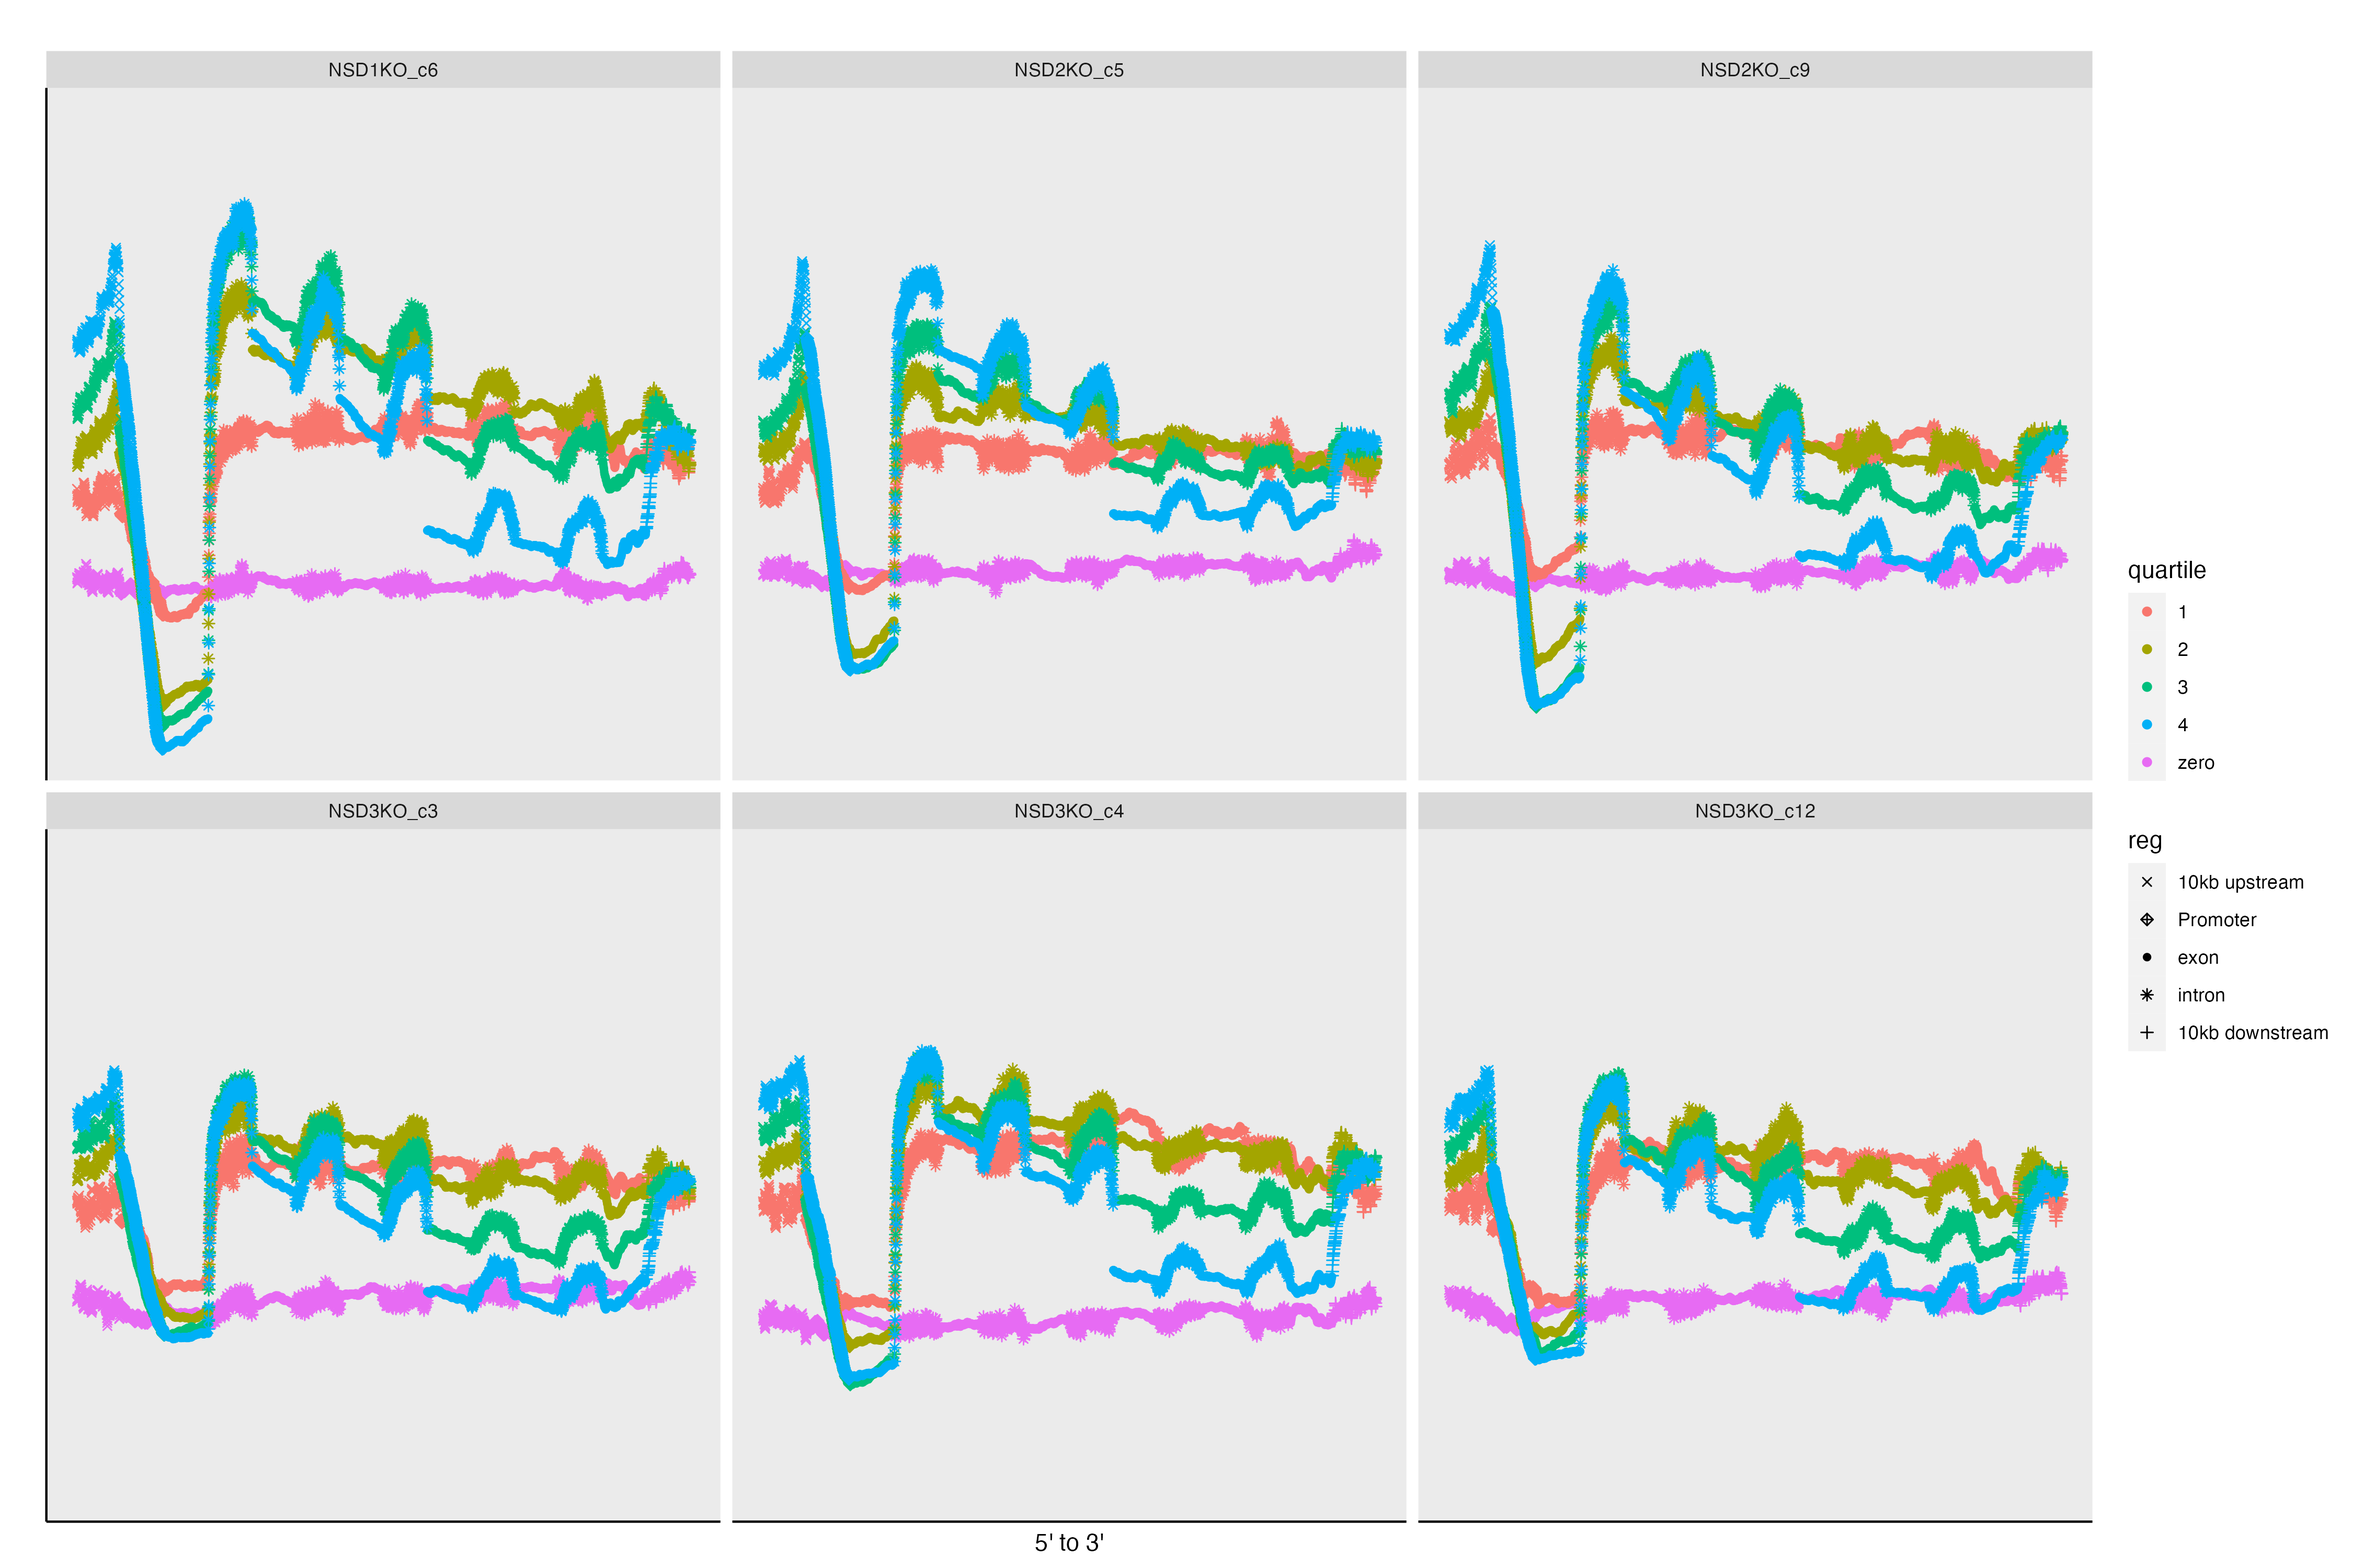
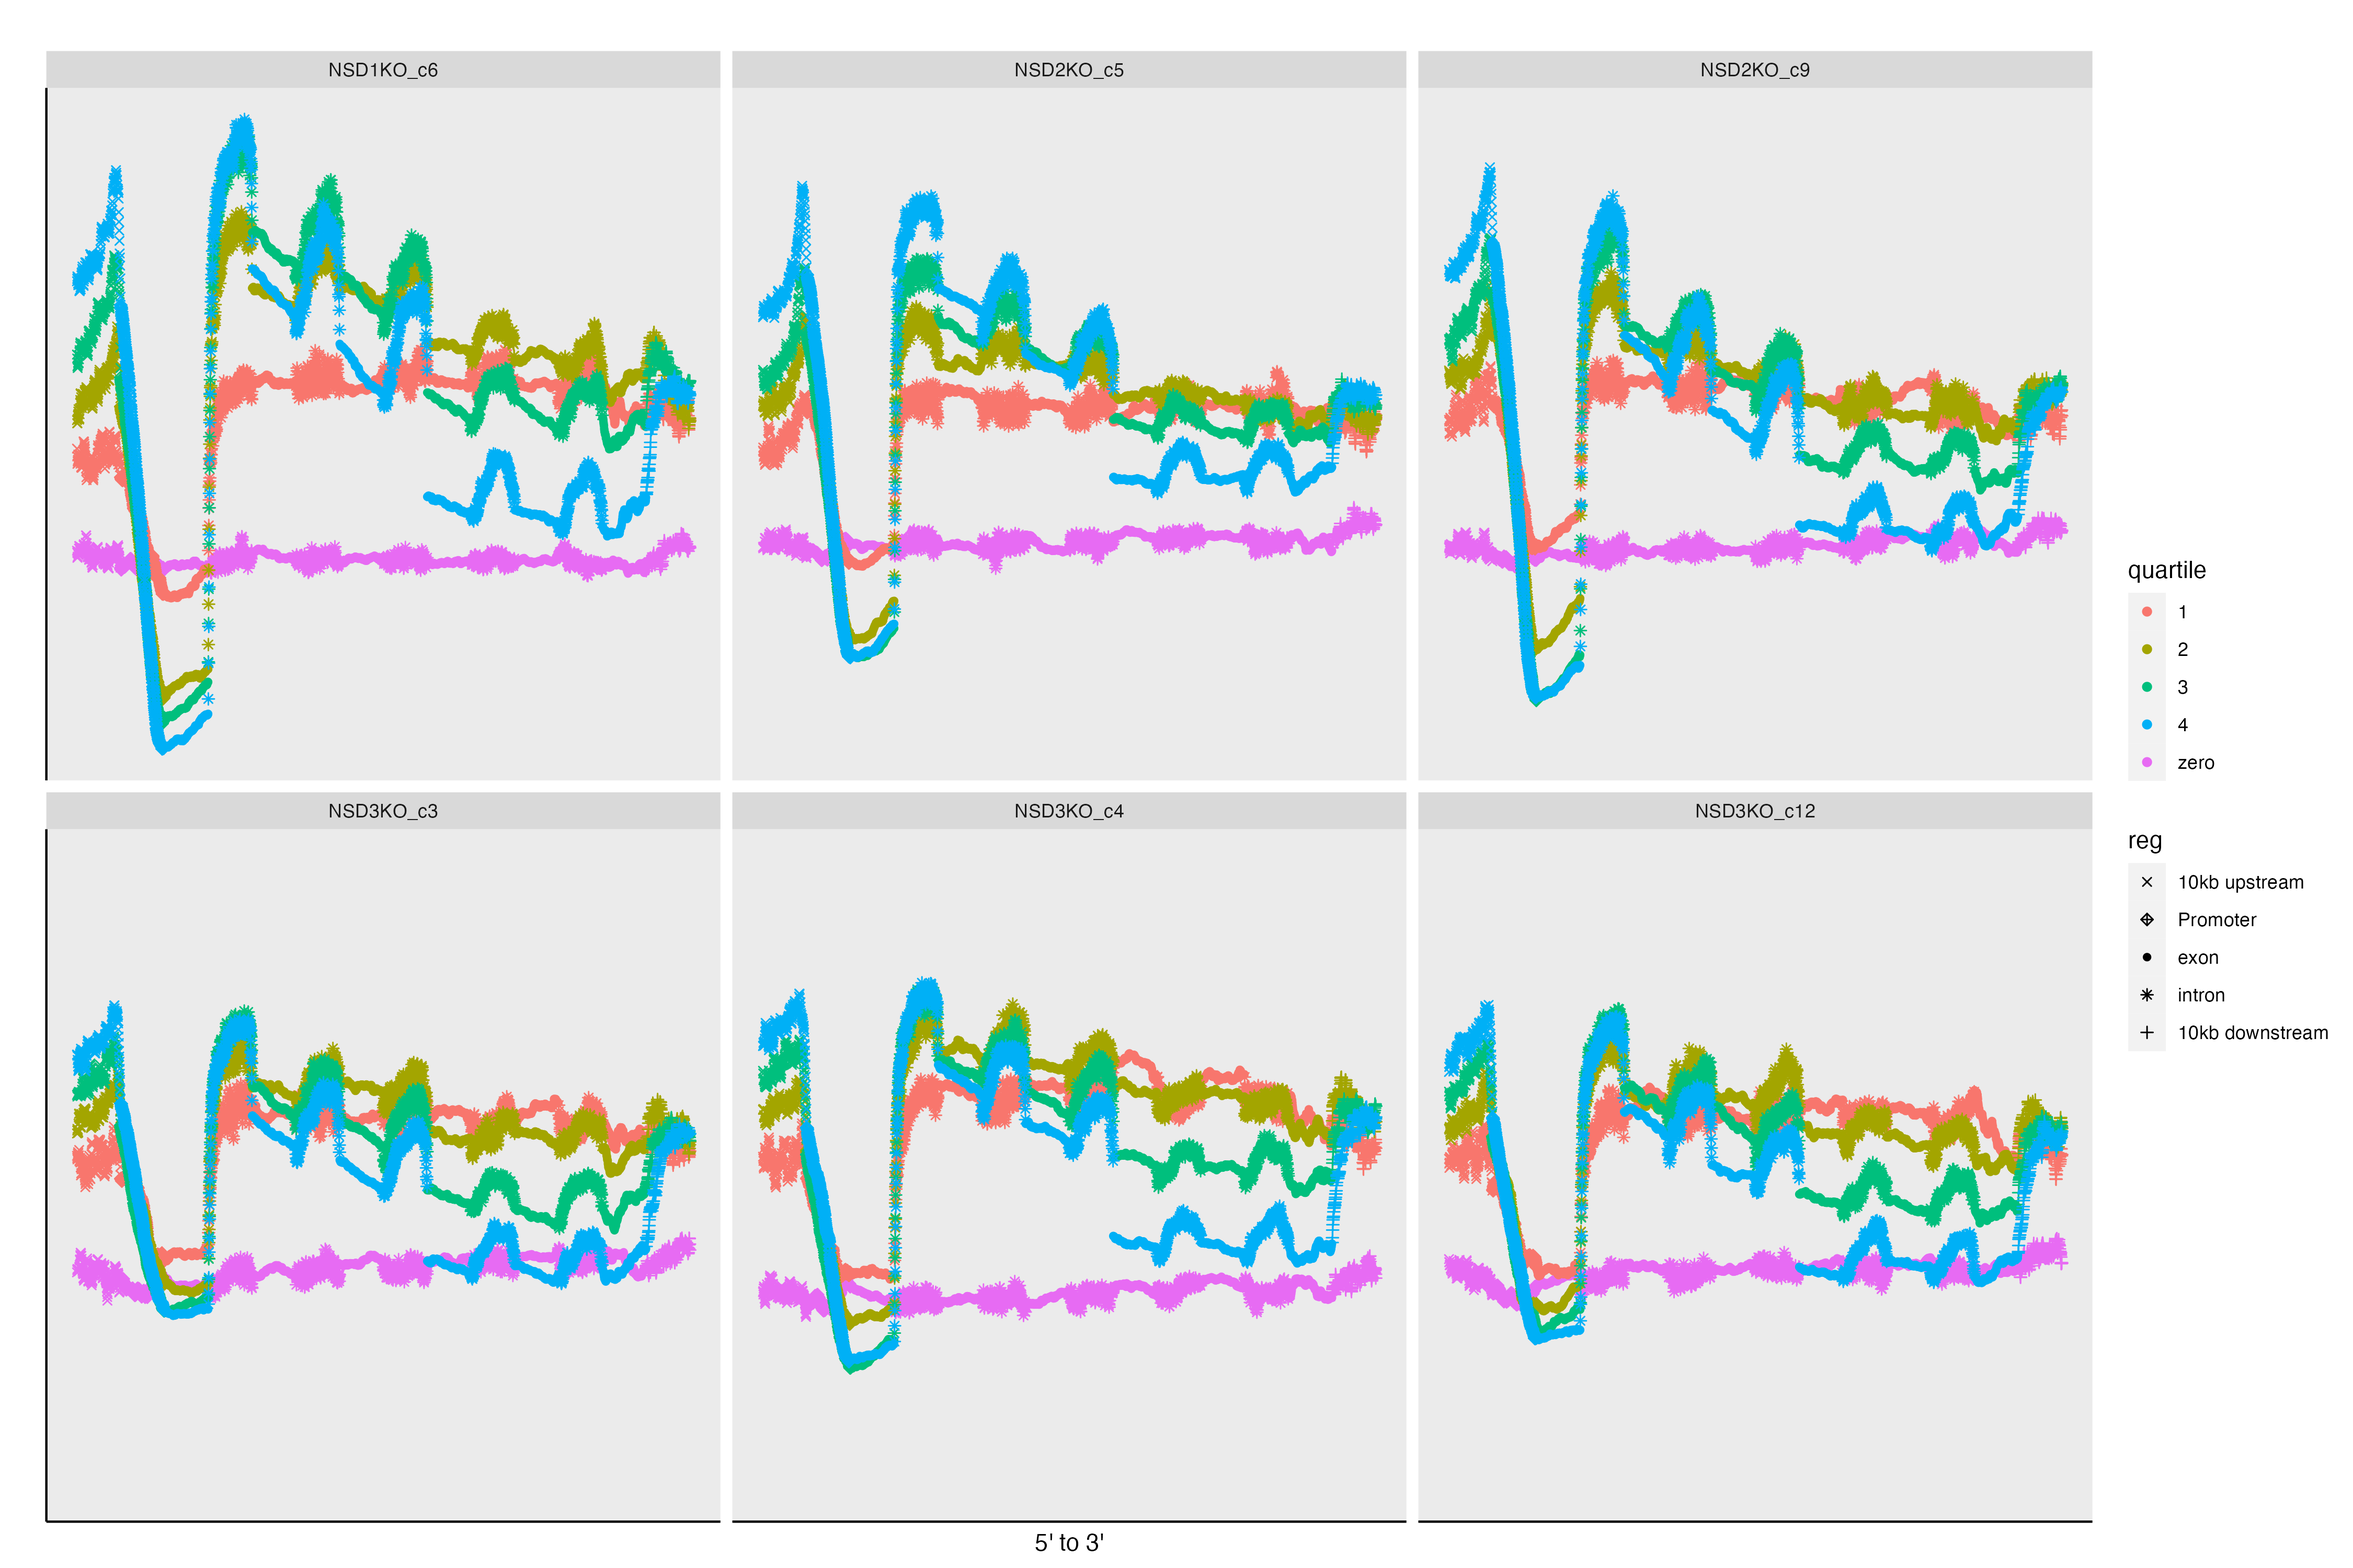
greatt

Changed region(s): [[0.0311, 0.062, 0.9022, 0.465], [0.0311, 0.62, 0.9022, 0.899]]

diff --git a/docs/distribution_genebody.html b/docs/distribution_genebody.html
@@ -355,7 +355,7 @@ div.tocify {
 </div>
 <div id="k36me2" class="section level2">
 <h2>K36me2</h2>
-<p><img src="images/distribution_genebody/input_normalized/K36me2/K36me2_page1.gene_centric.distribution.facet.plot.png" width="100%" /><img src="images/distribution_genebody/input_normalized/K36me2/K36me2_page2.gene_centric.distribution.facet.plot.png" width="100%" /><img src="images/distribution_genebody/input_normalized/K36me2/K36me2_page3.gene_centric.distribution.facet.plot.png" width="100%" /><img src="images/distribution_genebody/input_normalized/K36me2/K36me2_page4.gene_centric.distribution.facet.plot.png" width="100%" /></p>
+<p><img src="images/distribution_genebody/input_normalized/K36me2/K36me2_page1.gene_centric.distribution.facet.plot.png" width="100%" /><img src="images/distribution_genebody/input_normalized/K36me2/K36me2_page2.gene_centric.distribution.facet.plot.png" width="100%" /><img src="images/distribution_genebody/input_normalized/K36me2/K36me2_page3.gene_centric.distribution.facet.plot.png" width="100%" /></p>
 </div>
 <div id="k36me3" class="section level2">
 <h2>K36me3</h2>
@@ -366,12 +366,15 @@ div.tocify {
 <h1 class="tabset">CPM-normalized</h1>
 <div id="k36me1-1" class="section level2">
 <h2>K36me1</h2>
+<p><img src="images/distribution_genebody/cpm_normalized/K36me1/K36me1.gene_centric.distribution.facet.plot.png" width="100%" /></p>
 </div>
 <div id="k36me2-1" class="section level2">
 <h2>K36me2</h2>
+<p><img src="images/distribution_genebody/cpm_normalized/K36me2/K36me2_page1.gene_centric.distribution.facet.plot.png" width="100%" /><img src="images/distribution_genebody/cpm_normalized/K36me2/K36me2_page2.gene_centric.distribution.facet.plot.png" width="100%" /><img src="images/distribution_genebody/cpm_normalized/K36me2/K36me2_page3.gene_centric.distribution.facet.plot.png" width="100%" /></p>
 </div>
 <div id="k36me3-1" class="section level2">
 <h2>K36me3</h2>
+<p><img src="images/distribution_genebody/cpm_normalized/K36me3/K36me3.gene_centric.distribution.plot.png" width="100%" /></p>
 </div>
 </div>
 

diff --git a/docs/K36me_signal.html b/docs/K36me_signal.html
@@ -347,31 +347,34 @@ div.tocify {
 </div>
 
 
-<div id="input-normalized-signal" class="section level1 tabset">
-<h1 class="tabset">Input-normalized signal</h1>
+<div id="input-normalized" class="section level1 tabset">
+<h1 class="tabset">Input-normalized</h1>
 <div id="k36me1" class="section level2">
 <h2>K36me1</h2>
-<p><img src="images/K36me_signal/K36me1/K36me1_signal.facet.plot.png" width="100%" /></p>
+<p><img src="images/K36me_signal/input_normalized/K36me1/K36me1_signal.facet.plot.png" width="100%" /></p>
 </div>
 <div id="k36me2" class="section level2">
 <h2>K36me2</h2>
-<p><img src="images/K36me_signal/K36me2/PA_K36me2_signal.facet.plot.png" width="100%" /></p>
+<p><img src="images/K36me_signal/input_normalized/K36me2/PA_K36me2_signal.facet.plot.png" width="100%" /></p>
 </div>
 <div id="k36me3" class="section level2">
 <h2>K36me3</h2>
-<p><img src="images/K36me_signal/K36me3/K36me3_signal.facet.plot.png" width="100%" /></p>
+<p><img src="images/K36me_signal/input_normalized/K36me3/K36me3_signal.facet.plot.png" width="100%" /></p>
 </div>
 </div>
-<div id="cpm-only-signal" class="section level1 tabset">
-<h1 class="tabset">CPM-only signal</h1>
+<div id="cpm-normalized" class="section level1 tabset">
+<h1 class="tabset">CPM-normalized</h1>
 <div id="k36me1-1" class="section level2">
 <h2>K36me1</h2>
+<p><img src="images/K36me_signal/cpm/K36me1/K36me1_signal.facet.plot.png" width="100%" /></p>
 </div>
 <div id="k36me2-1" class="section level2">
 <h2>K36me2</h2>
+<p><img src="images/K36me_signal/cpm/K36me2/K36me2_signal.facet.plot.png" width="100%" /></p>
 </div>
 <div id="k36me3-1" class="section level2">
 <h2>K36me3</h2>
+<p><img src="images/K36me_signal/cpm/K36me3/K36me3_signal.facet.plot.png" width="100%" /></p>
 </div>
 </div>
 
